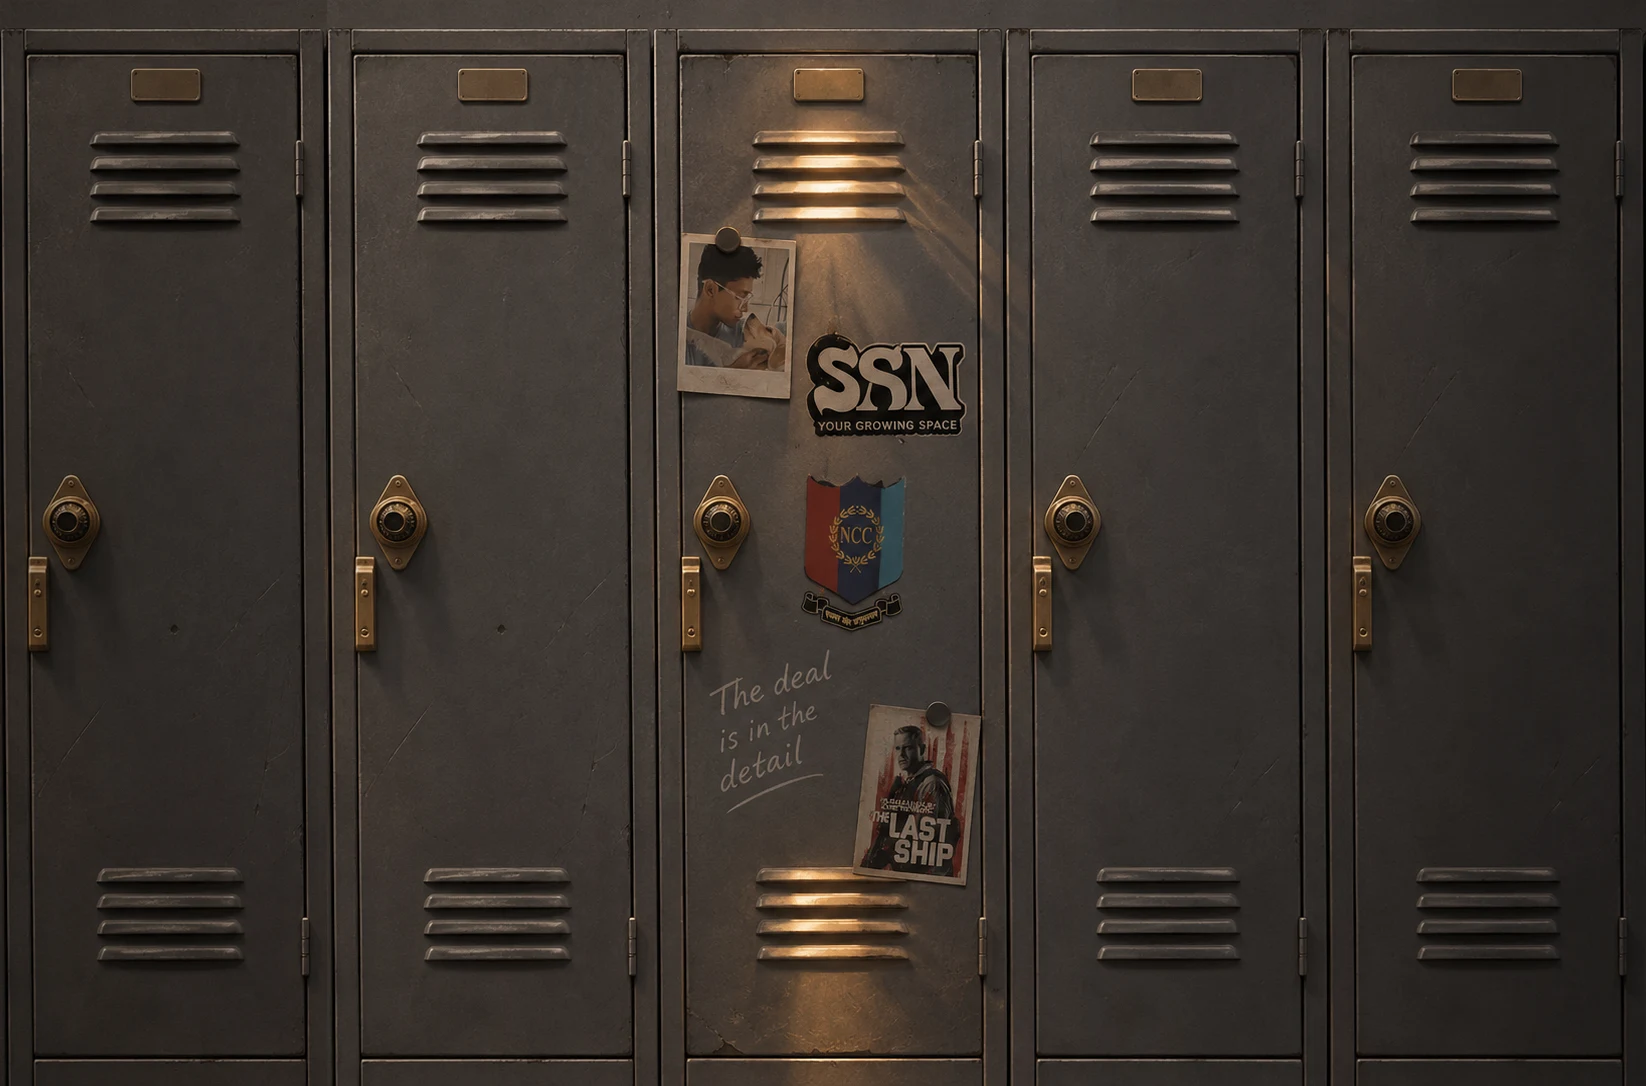
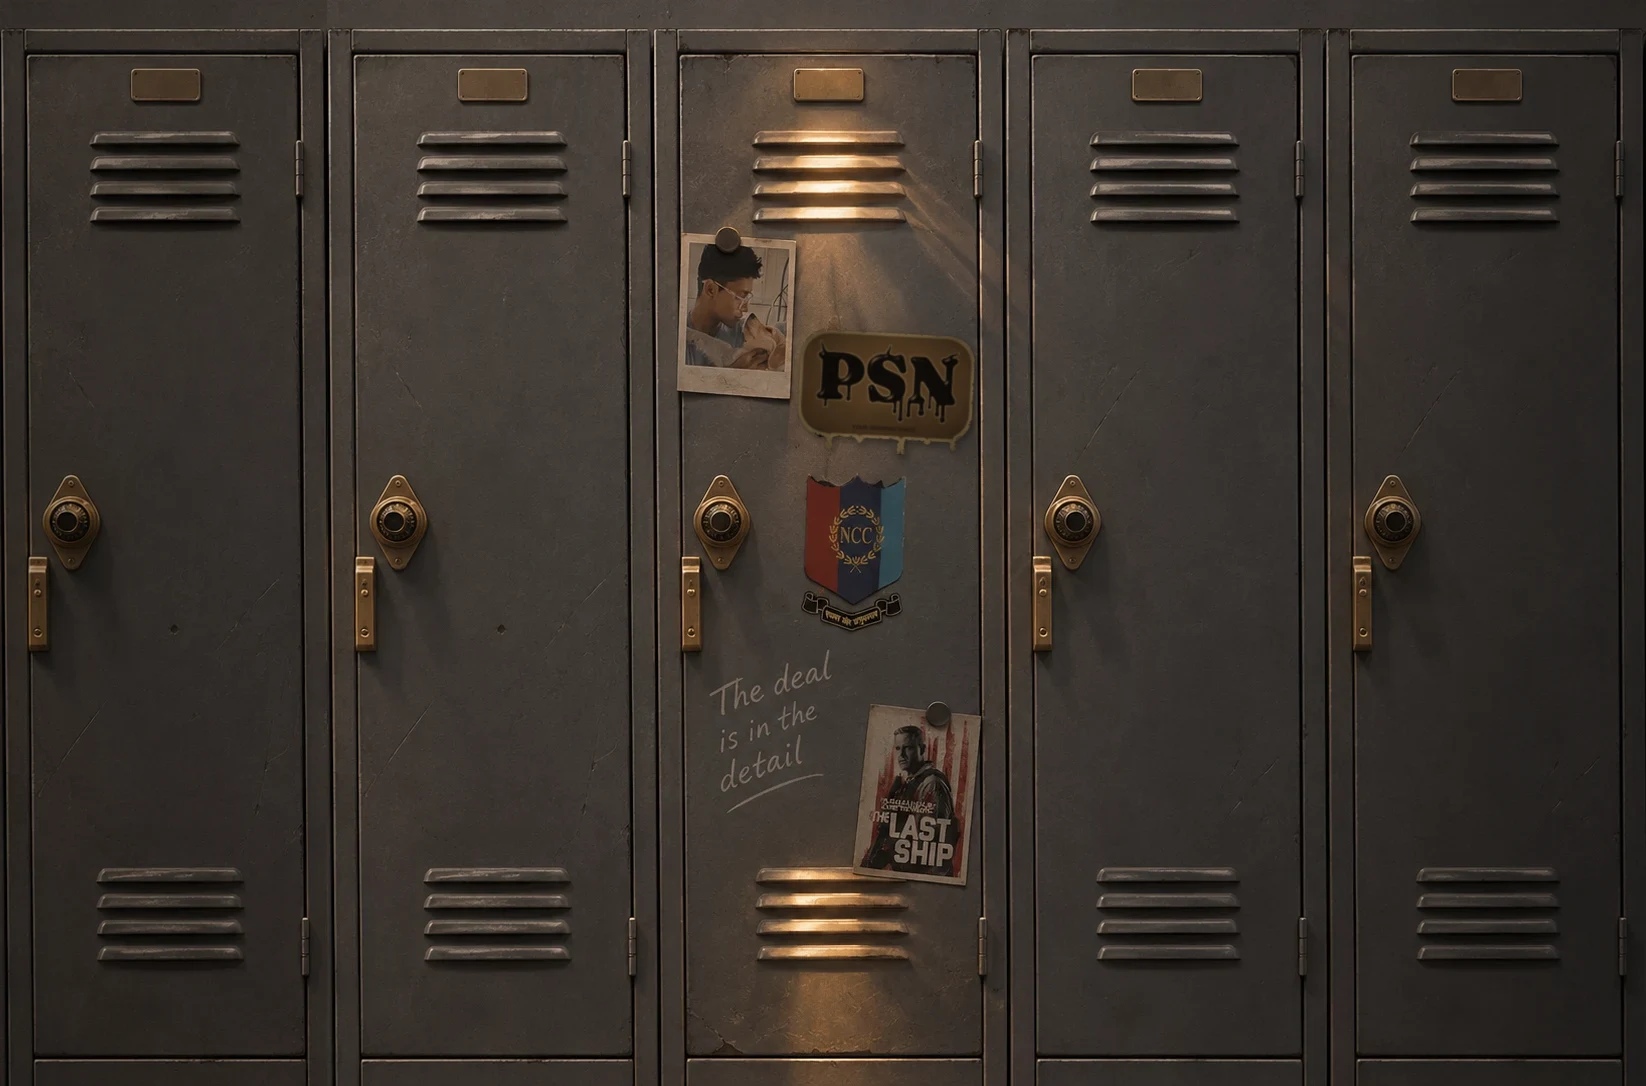
Locker: aged PSN badge on the front and inside; aircraft and battleship polaroids replace the app stickers
Claude-Session: https://claude.ai/code/session_01TickKJpBnQQFYgXhrANbMP

Changed region(s): [[0.4648, 0.3039, 0.5887, 0.4254]]

diff --git a/src/data/site.ts b/src/data/site.ts
@@ -283,7 +283,7 @@ export const next = {
 /* ---------- 05 · The locker (unlocked with the key hidden in chapter 04) ---------- */
 export const locker = {
   /** Closed view: the row of lockers, with the middle (sticker) one being Param's. */
-  front: { src: '/portfolio_psn/images/locker/front.webp', door: '/portfolio_psn/images/locker/front-door.webp', padlock: '/portfolio_psn/images/locker/padlock-body.webp', shackle: '/portfolio_psn/images/locker/padlock-shackle.webp', alt: 'A row of five grey school lockers. The middle one is padlocked, with warm light leaking from its vents, and is covered in stickers: a photo, an SSN sticker, an NCC crest, "The deal is in the detail" and a Last Ship poster.' },
+  front: { src: '/portfolio_psn/images/locker/front.webp', door: '/portfolio_psn/images/locker/front-door.webp', padlock: '/portfolio_psn/images/locker/padlock-body.webp', shackle: '/portfolio_psn/images/locker/padlock-shackle.webp', alt: 'A row of five grey school lockers. The middle one is padlocked, with warm light leaking from its vents, and is covered in stickers: a photo, a worn PSN badge, an NCC crest, "The deal is in the detail" and a Last Ship poster.' },
   /** Open view: the inside of the locker (Param's reference image, cleaned up). */
   inside: '/portfolio_psn/images/locker/inside.webp',
   posterPaper: '/portfolio_psn/images/locker/poster-paper.webp',
@@ -294,8 +294,6 @@ export const locker = {
   explore: { title: 'Pull to explore..', text: "There's a whole ship hiding behind this poster." },
   shipNote: { title: 'The ship:-', text: '5 ft long, built during COVID from dismantled toys, gadgets and scrap. With working lights!' },
   note: 'During COVID I took apart old toys and gadgets, kept every reusable part, and built a 5-foot battleship with working lights from them. Pull the tag on the poster to see it.',
-  /** The big sticker on the inside of the door (matches the one on the front). */
-  sticker: { big: 'PSN', small: 'Your growing space' },
   /**
    * The battleship in the void. Until `model` is set, the void shows a 360° turntable of the
    * Tripo render (120 frames, drag to spin). Put a .glb in /public (e.g.
